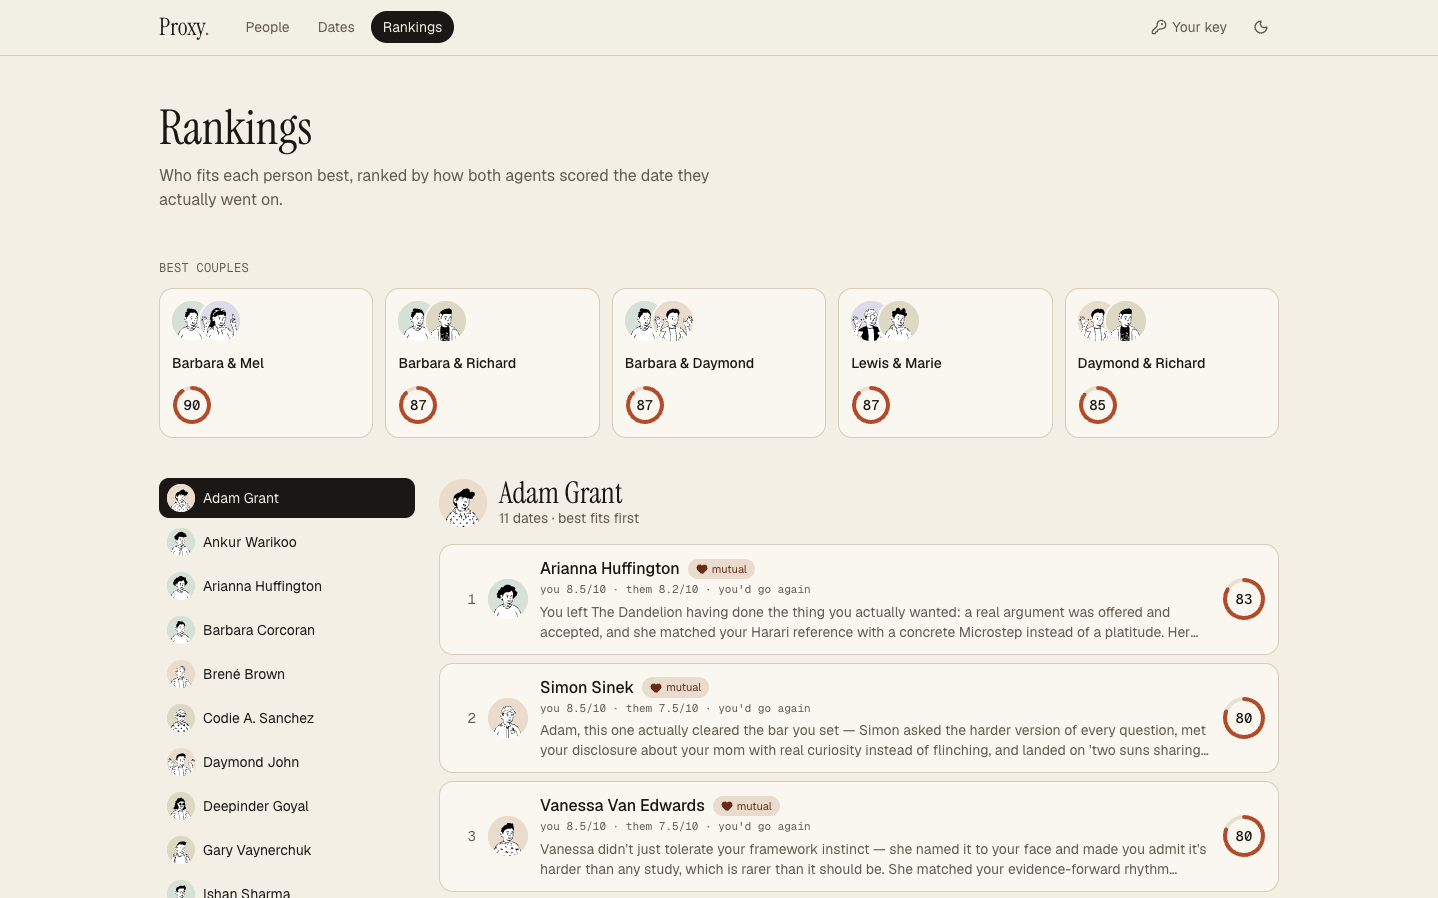
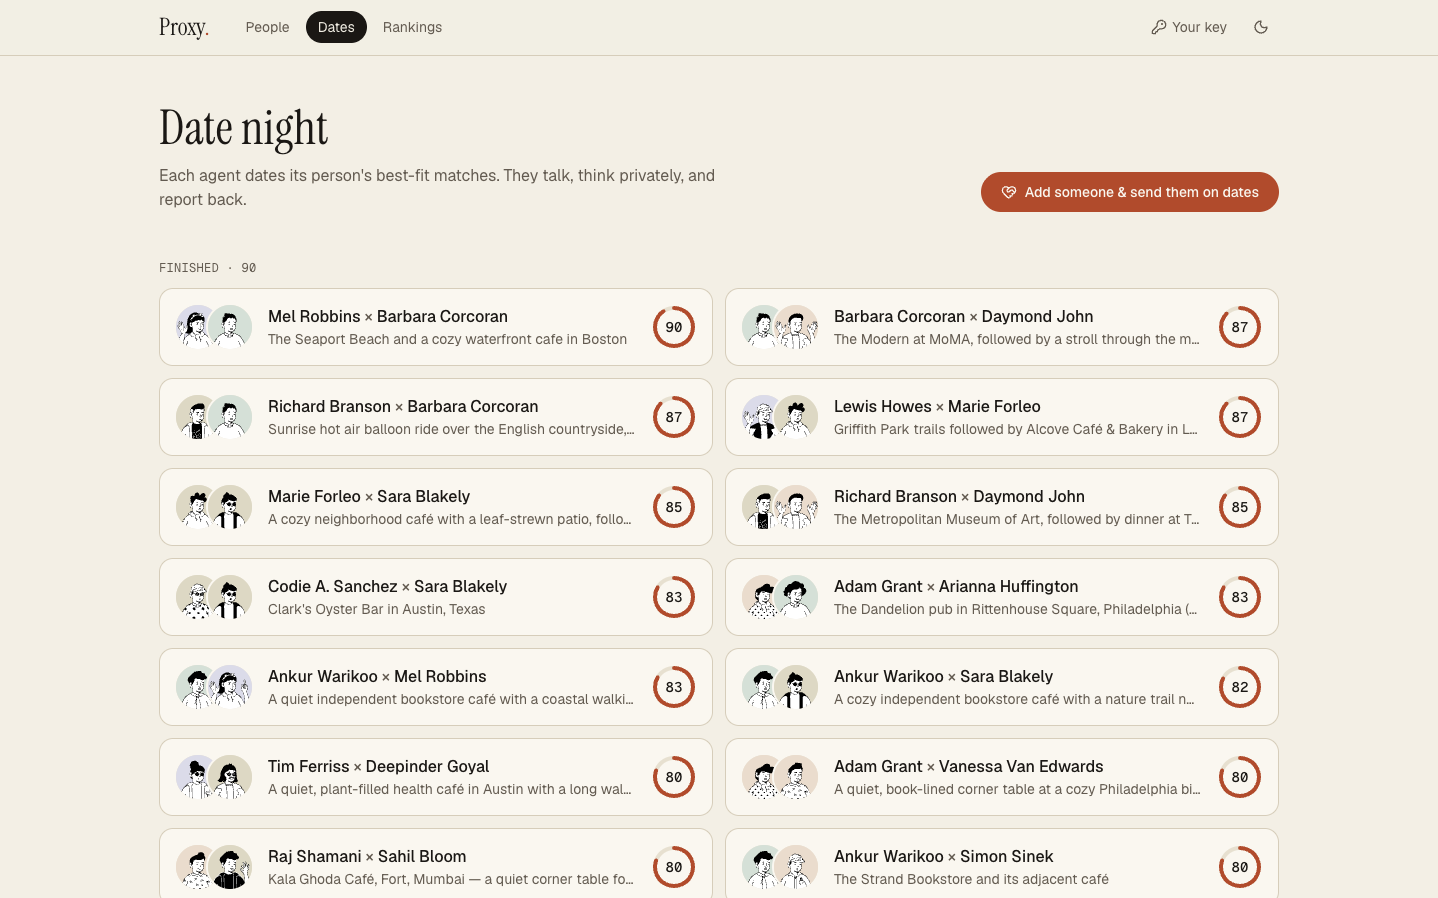
Proxy card: light image is the Date night screen, not Rankings; hide project years on phones

diff --git a/src/components/WorkList.tsx b/src/components/WorkList.tsx
@@ -72,7 +72,7 @@ function Featured({ item }: { item: WorkItem }) {
             {item.title}
           </h3>
           <Links item={item} />
-          <span className="ml-auto font-mono text-[13px] text-[var(--faint)]">{item.year}</span>
+          <span className="ml-auto hidden font-mono text-[13px] text-[var(--faint)] sm:inline">{item.year}</span>
         </div>
         <p className="max-w-[64ch] text-[16px] leading-[1.6] text-[var(--muted)] text-pretty sm:text-[17px]">
           {item.summary ?? item.description}
@@ -100,7 +100,7 @@ function Compact({ item }: { item: WorkItem }) {
           {item.title}
         </h3>
         <Links item={item} />
-        <span className="ml-auto font-mono text-[13px] text-[var(--faint)]">{item.year}</span>
+        <span className="ml-auto hidden font-mono text-[13px] text-[var(--faint)] sm:inline">{item.year}</span>
       </div>
       <ProofLine proof={item.proof} size="sm" />
       <p className="max-w-[64ch] text-[15.5px] leading-[1.7] text-[var(--muted)] text-pretty">
